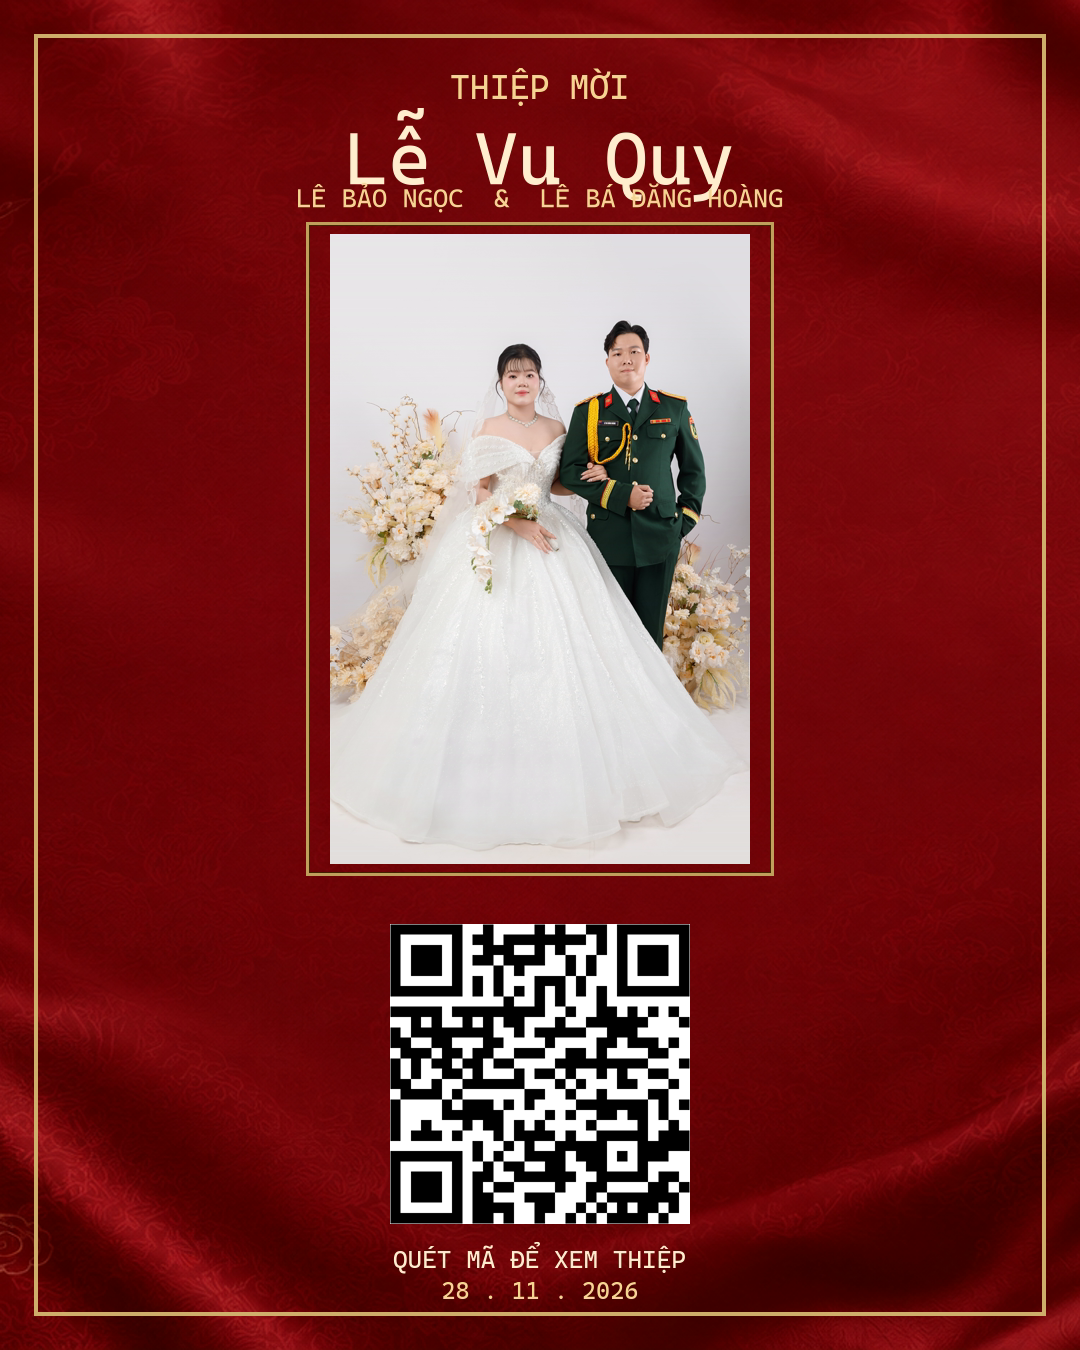
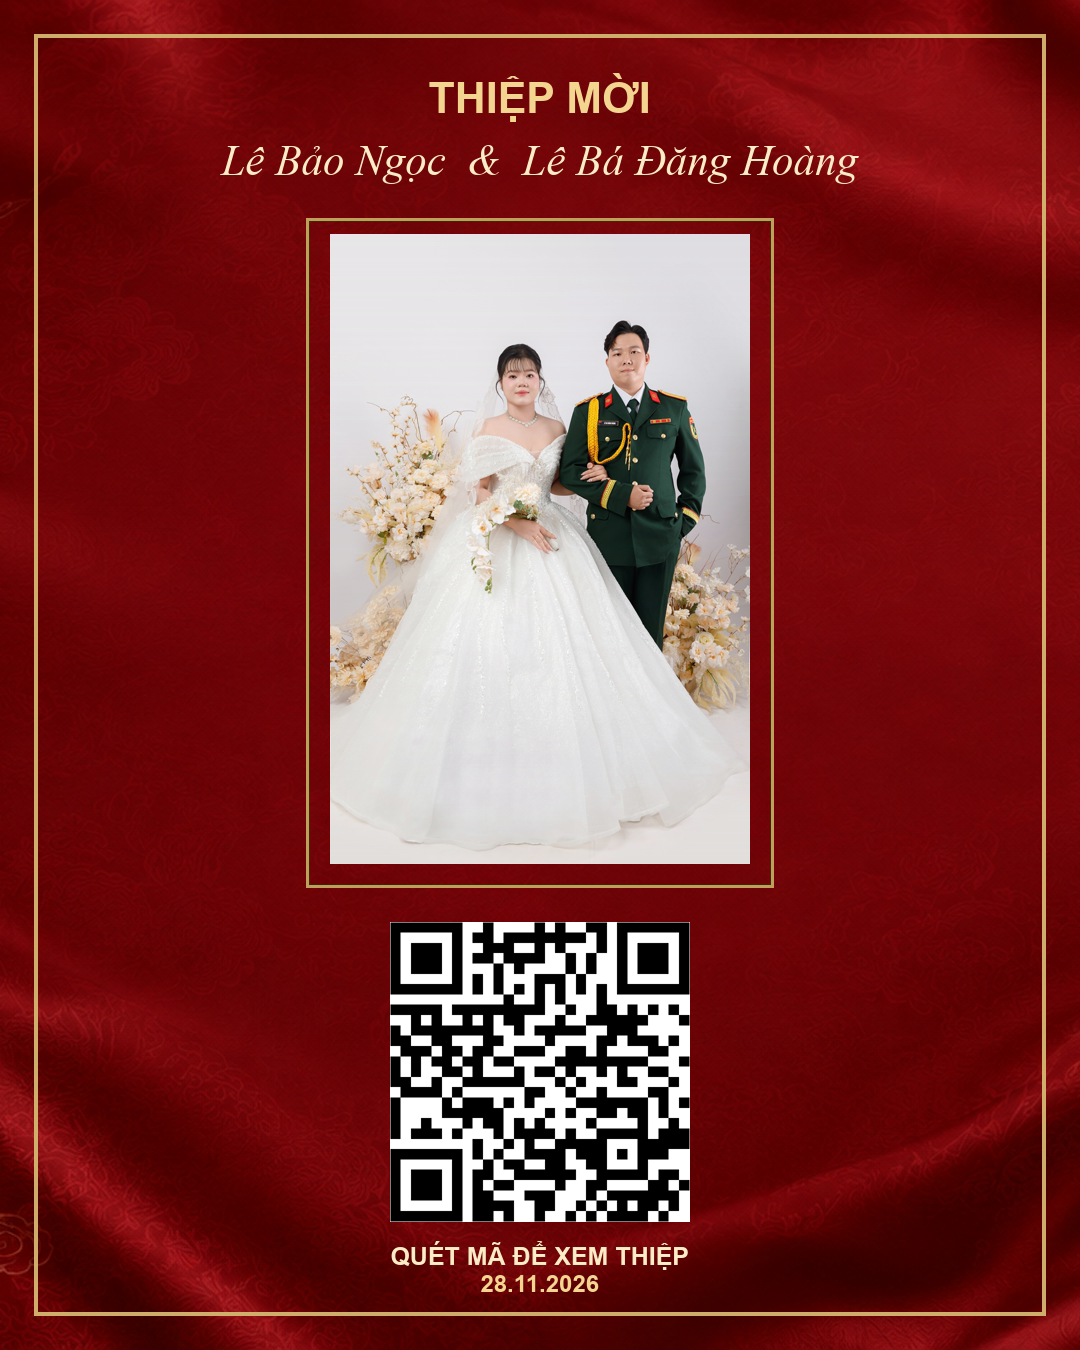
Update Site source

Changed region(s): [[0.3361, 0.6533, 0.6417, 0.9644], [0.2139, 0.0311, 0.7944, 0.1867]]

diff --git a/index.html b/index.html
@@ -65,7 +65,8 @@
     /* Keep the family announcement optically centred at every width. */
     .intro .ceremony-note{width:100%;max-width:850px;margin:28px auto 0!important;text-align:center!important;display:block}.intro .ceremony-note strong,.intro .ceremony-note em{display:inline-block}.intro .flourish{display:block;font-size:4.6rem;line-height:1;margin:34px auto 0;color:#f2c875;text-shadow:0 3px 12px rgba(0,0,0,.35)}
     /* The on-page QR card mirrors the red silk share card visitors can download. */
-    .share-card{background:#650017 var(--silk) center/cover no-repeat;border:1px solid #e6c07a;transform:rotate(-1deg)}.share-card-inner{border-color:rgba(240,206,137,.7);background:rgba(82,0,18,.5)}.share-card .mini-photo{border:2px solid #e6c07a;background:#fff}.share-card small{color:#f4d591}.share-card h3{color:#fff0cf}.share-card #qr{padding:7px;background:#fff;border:2px solid #e6c07a}
+    .share-card{display:block;padding:0;background:transparent;border:0;transform:rotate(-1deg);line-height:0}.share-card .share-preview{display:block;width:100%;height:auto;margin:0;max-width:none}
+    @media(max-width:700px){.hero{padding:78px 14px 30px;gap:14px}.hero-copy{padding:25px 17px;width:100%}.hero h1{font-size:clamp(2rem,10vw,4rem);line-height:1;margin:10px 0 14px}.hero .hero-names{font-size:.88rem;line-height:1.55;letter-spacing:0}.hero .hero-date{font-size:.76rem;letter-spacing:.03em}.hero .hero-countdown{font-size:.72rem;margin-top:13px}.hero .scroll-cue{margin-top:16px}.hero-img{width:min(100%,390px);height:auto;max-height:55svh}.intro .headline{font-size:clamp(1.8rem,8vw,2.7rem)}.couple-names h3{font-size:clamp(2.2rem,10vw,3.4rem);line-height:1.16}.intro .ceremony-note{font-size:.94rem;line-height:1.7;max-width:34ch}.intro .ceremony-note strong{display:inline}.invitation{padding:72px 14px}.invite-copy{padding:30px 17px}.invite-copy h2{font-size:clamp(2.8rem,12vw,4.3rem)}.invite-copy p{font-size:.95rem}.venue-name{font-size:clamp(1.8rem,8vw,2.5rem)!important}.date-line{display:block;margin:24px auto;font-size:.98rem;line-height:1.7}.date-line:before,.date-line:after,.date-line .date-separator{display:none}.date-line span{display:block}.date-line strong{font-size:1.15rem}.detail p{max-width:36ch}.share{gap:35px}.share-card{width:min(100%,355px)}.share-actions{gap:8px}.share-actions .button{padding:11px 12px;font-size:.74rem}}
   </style>
 </head>
 <body>
@@ -74,18 +75,18 @@
   <header class="topbar"><span class="monogram">N &amp; H</span><button class="music" id="music" type="button" aria-pressed="false">♪ Bật nhạc</button></header>
   <section class="hero" aria-label="Thiệp mời tiệc chung vui">
     <img class="hero-img" src="assets/hero.webp" alt="Ảnh cô dâu chú rể" />
-    <div class="hero-copy"><span class="hero-mark">囍</span><div class="eyebrow">Thiệp mời</div><h1>Trân trọng kính mời</h1><p class="hero-names">Quý khách đến dự buổi tiệc chung vui cùng gia đình chúng tôi tại <strong>TTC Hotel Michelia</strong></p><p class="hero-date">17 giờ 30 · Thứ Bảy, ngày 28 tháng 11 năm 2026</p><p class="hero-countdown" id="countdown" aria-live="polite">Đếm ngược đến ngày vui</p><a class="scroll-cue" href="#loi-moi">Xem nội dung thiệp</a></div>
+    <div class="hero-copy"><span class="hero-mark">囍</span><div class="eyebrow">Thiệp mời</div><h1>Trân trọng kính mời</h1><p class="hero-names">Quý khách chung vui tại <strong>TTC Hotel Michelia</strong></p><p class="hero-date">17 giờ 30 · Thứ Bảy 28.11.2026</p><p class="hero-countdown" id="countdown" aria-live="polite">Đếm ngược đến ngày vui</p><a class="scroll-cue" href="#loi-moi">Xem nội dung thiệp</a></div>
   </section>
   <main>
     <section class="section intro" id="loi-moi" data-reveal><p class="script">Trân trọng báo tin</p><h2 class="headline">Lễ Vu Quy của con chúng tôi</h2><div class="announcement-family"><div><strong>Nhà gái</strong><p>Bà Lê Thanh Nhàn<br>197 đường 2/4 · P. Bắc Nha Trang<br>Tỉnh Khánh Hòa</p></div><div><strong>Nhà trai</strong><p>Ông Lê Bá Mai<br>Bà Lê Thị Loan<br>272 đường 2/4 · P. Bắc Nha Trang<br>Tỉnh Khánh Hòa</p></div></div><div class="couple-names"><p>Quý nữ &amp; Quý nam</p><h3>Lê Bảo Ngọc<br>&amp;<br>Lê Bá Đăng Hoàng</h3></div><p class="ceremony-note">Hôn lễ được cử hành tại <strong>Tư Gia</strong><br>Vào lúc <strong>11 giờ 00 · Thứ Bảy, ngày 28 tháng 11 năm 2026</strong><br><em>(Nhằm ngày 20 tháng 10 năm Bính Ngọ)</em></p><span class="flourish">囍</span></section>
     <section class="section invitation" data-reveal>
-      <div class="invite-copy"><div class="eyebrow">Thiệp mời</div><h2>Buổi tiệc chung vui</h2><p>Trân trọng kính mời quý khách đến dự buổi tiệc chung vui cùng gia đình chúng tôi tại</p><p class="venue-name">TTC Hotel Michelia</p><p class="venue-detail">Sảnh Solar · Tầng 3<br>Số 4 Pasteur · Phường Nha Trang<br>Tỉnh Khánh Hòa</p><div class="date-line"><span>Vào lúc <strong>17 giờ 30</strong></span><strong>·</strong><span>Thứ Bảy, 28 tháng 11 năm 2026</span></div><p><em>(Nhằm ngày 20 tháng 10 năm Bính Ngọ)</em></p><p>Sự hiện diện của quý khách là niềm vinh hạnh cho gia đình chúng tôi. Kính mời!</p><a class="button" href="#ban-do">Xem bản đồ địa điểm</a></div>
+      <div class="invite-copy"><div class="eyebrow">Thiệp mời</div><h2>Buổi tiệc chung vui</h2><p>Trân trọng kính mời quý khách đến dự buổi tiệc chung vui cùng gia đình chúng tôi tại</p><p class="venue-name">TTC Hotel Michelia</p><p class="venue-detail">Sảnh Solar · Tầng 3<br>Số 4 Pasteur · Phường Nha Trang<br>Tỉnh Khánh Hòa</p><div class="date-line"><span>Vào lúc <strong>17 giờ 30</strong></span><strong class="date-separator">·</strong><span>Thứ Bảy, 28 tháng 11 năm 2026</span></div><p><em>(Nhằm ngày 20 tháng 10 năm Bính Ngọ)</em></p><p>Sự hiện diện của quý khách là niềm vinh hạnh cho gia đình chúng tôi. Kính mời!</p><a class="button" href="#ban-do">Xem bản đồ địa điểm</a></div>
     </section>
     <section class="section" style="padding-bottom:50px" data-reveal><div class="gallery-head"><div><p class="script">Our story</p><h2 class="headline">Những khung hình<br>của chúng mình</h2></div><p>Vuốt để xem từng khoảnh khắc. Mỗi tấm ảnh là một chương nhỏ trong câu chuyện tình yêu.</p></div></section>
     <div class="album-controls" aria-label="Điều hướng album"><button class="album-arrow" type="button" data-gallery-nav="previous" aria-label="Xem ảnh trước">←</button><span>Vuốt hoặc nhấn mũi tên để xem ảnh</span><button class="album-arrow" type="button" data-gallery-nav="next" aria-label="Xem ảnh tiếp theo">→</button></div><div class="gallery" id="wedding-gallery" aria-label="Bộ ảnh cưới, vuốt ngang để xem"></div><p class="gallery-note">Kéo sang trái hoặc phải để xem toàn bộ album</p>
     <section class="section map-section" id="ban-do" data-reveal aria-label="Bản đồ địa điểm tổ chức"><p class="script">Find us</p><h2 class="headline">Địa điểm tổ chức</h2><div class="map-frame"><iframe src="https://www.google.com/maps/embed?pb=!1m18!1m12!1m3!1d3898.927958017106!2d109.19280807408106!3d12.253154488000092!2m3!1f0!2f0!3f0!3m2!1i1024!2i768!4f13.1!3m3!1m2!1s0x31706784155cd687%3A0x9d8c16025b427c9e!2sTTC%20Hotel%20-%20Michelia!5e0!3m2!1svi!2s!4v1791259359448!5m2!1svi!2s" title="Bản đồ TTC Hotel - Michelia" allowfullscreen loading="lazy" referrerpolicy="strict-origin-when-cross-origin"></iframe></div></section>
-    <section class="section share" data-reveal><div class="share-copy"><p class="script">Share our joy</p><h2 class="headline">Giữ tấm thiệp<br>ở thật gần</h2><p>Quét mã QR để mở thiệp trên điện thoại, hoặc gửi đến người thân và bạn bè để cùng chia sẻ lời chúc cho ngày vui của chúng tôi.</p><div class="share-actions"><button class="button" id="share" type="button">Chia sẻ thiệp</button><a class="button outline" href="https://maps.app.goo.gl/Tvqo9zdrsLE33ZZv6" target="_blank" rel="noopener">Xem địa điểm</a></div><a class="button share-download" href="assets/thiep-qr.png" download="thiep-cuoi-bao-ngoc-dang-hoang.png">Lưu ảnh QR</a><p class="save-hint">Chạm vào thẻ QR để lưu ảnh chia sẻ.</p></div>
-      <a class="share-card" href="assets/thiep-qr.png" download="thiep-cuoi-bao-ngoc-dang-hoang.png" aria-label="Lưu ảnh thiệp có mã QR"><div class="share-card-inner"><img class="mini-photo" src="assets/share-couple.jpg" alt="Ảnh cô dâu chú rể trên thiệp chia sẻ"><small>Wedding invitation</small><h3>With love</h3><img id="qr" alt="Mã QR mở trang thiệp cưới"><small>Quét để mở thiệp</small></div></a>
+    <section class="section share" data-reveal><div class="share-copy"><p class="script">Share our joy</p><h2 class="headline">Giữ tấm thiệp<br>ở thật gần</h2><p>Quét mã QR để mở thiệp, hoặc gửi tấm thiệp này cho người thân và bạn bè.</p><div class="share-actions"><button class="button" id="share" type="button">Chia sẻ thiệp</button><a class="button outline" href="https://maps.app.goo.gl/Tvqo9zdrsLE33ZZv6" target="_blank" rel="noopener">Xem địa điểm</a></div><a class="button share-download" href="assets/thiep-qr.png" download="thiep-cuoi-bao-ngoc-dang-hoang.png">Lưu ảnh QR</a><p class="save-hint">Chạm vào thẻ QR để lưu ảnh chia sẻ.</p></div>
+      <a class="share-card" href="assets/thiep-qr.png" download="thiep-cuoi-bao-ngoc-dang-hoang.png" aria-label="Lưu ảnh thiệp có mã QR"><img class="share-preview" src="assets/thiep-qr.png" alt="Thiệp mời Bảo Ngọc và Đăng Hoàng kèm mã QR để mở trang cưới" loading="lazy"></a>
     </section>
   </main>
   <footer class="footer"><p class="script">Thank you</p><p>Cảm ơn bạn đã trở thành một phần của ngày đặc biệt này.</p></footer>
@@ -94,7 +95,6 @@
     const galleryPhotos=['assets/gallery/le-M___5325.webp','assets/gallery/le-M___5349.webp','assets/gallery/le-M___5359.webp','assets/gallery/le-M___5374.webp','assets/gallery/le-M___5391.webp','assets/gallery/le-M___5438.webp','assets/gallery/le-M___5456.webp','assets/gallery/le-M___5535.webp','assets/gallery/le-M___5564.webp','assets/gallery/le-M___5576.webp','assets/gallery/le-M___5584.webp','assets/gallery/le-M___5594.webp','assets/gallery/le-M___5596.webp','assets/gallery/le-M___5619.webp','assets/gallery/le-M___5624.webp','assets/gallery/le-M___5664.webp','assets/gallery/le-M___5672.webp','assets/gallery/le-M___5680.webp','assets/gallery/le-M___5685.webp','assets/gallery/le-M___5709.webp','assets/gallery/le-M___5718.webp','assets/gallery/le-M___5744.webp','assets/gallery/le-M___5760.webp','assets/gallery/le-M___5771.webp','assets/gallery/le-M___5788.webp','assets/gallery/le-M___5816.webp','assets/gallery/le-M___5827.webp','assets/gallery/le-M___5830.webp','assets/gallery/le-M___5852.webp','assets/gallery/le-M___5865.webp','assets/gallery/le-M___5879.webp','assets/gallery/album-000-BIA.webp','assets/gallery/album-My-New-Project_01.webp','assets/gallery/album-My-New-Project_02.webp','assets/gallery/album-My-New-Project_03.webp','assets/gallery/album-My-New-Project_04.webp','assets/gallery/album-My-New-Project_05.webp','assets/gallery/album-My-New-Project_06.webp','assets/gallery/album-My-New-Project_07.webp','assets/gallery/album-My-New-Project_08.webp','assets/gallery/album-My-New-Project_09.webp','assets/gallery/album-My-New-Project_10.webp'];
     document.getElementById('wedding-gallery').innerHTML=galleryPhotos.map((src,index)=>`<figure><img src="${src}" alt="Ảnh cưới ${index+1}" loading="lazy"></figure>`).join('');
     const weddingGallery=document.getElementById('wedding-gallery');document.querySelectorAll('[data-gallery-nav]').forEach(button=>button.addEventListener('click',()=>{const direction=button.dataset.galleryNav==='next'?1:-1;weddingGallery.scrollBy({left:direction*weddingGallery.clientWidth*.82,behavior:'smooth'})}));
-    document.getElementById('qr').src='assets/share-qr.png';
     const countdown=document.getElementById('countdown'),weddingMoment=new Date('2026-11-28T11:00:00+07:00');function updateCountdown(){const remaining=weddingMoment-Date.now();if(remaining<=0){countdown.textContent='Hôm nay là ngày vui của chúng tôi';return}const days=Math.floor(remaining/86400000),hours=Math.floor(remaining%86400000/3600000);countdown.textContent=`Còn ${days} ngày ${hours} giờ đến ngày vui`};updateCountdown();setInterval(updateCountdown,60000);
     const observer=new IntersectionObserver(entries=>entries.forEach(e=>e.target.classList.toggle('visible',e.isIntersecting)),{threshold:.18});document.querySelectorAll('[data-reveal]').forEach(el=>observer.observe(el));
     const hearts=document.getElementById('hearts');function heart(){const e=document.createElement('span');e.className='heart';e.textContent='♥';e.style.left=Math.random()*100+'vw';e.style.setProperty('--drift',(Math.random()*160-80)+'px');e.style.animationDuration=(6+Math.random()*6)+'s';e.style.fontSize=(12+Math.random()*16)+'px';hearts.append(e);setTimeout(()=>e.remove(),12500)}setInterval(heart,780);heart();heart();
